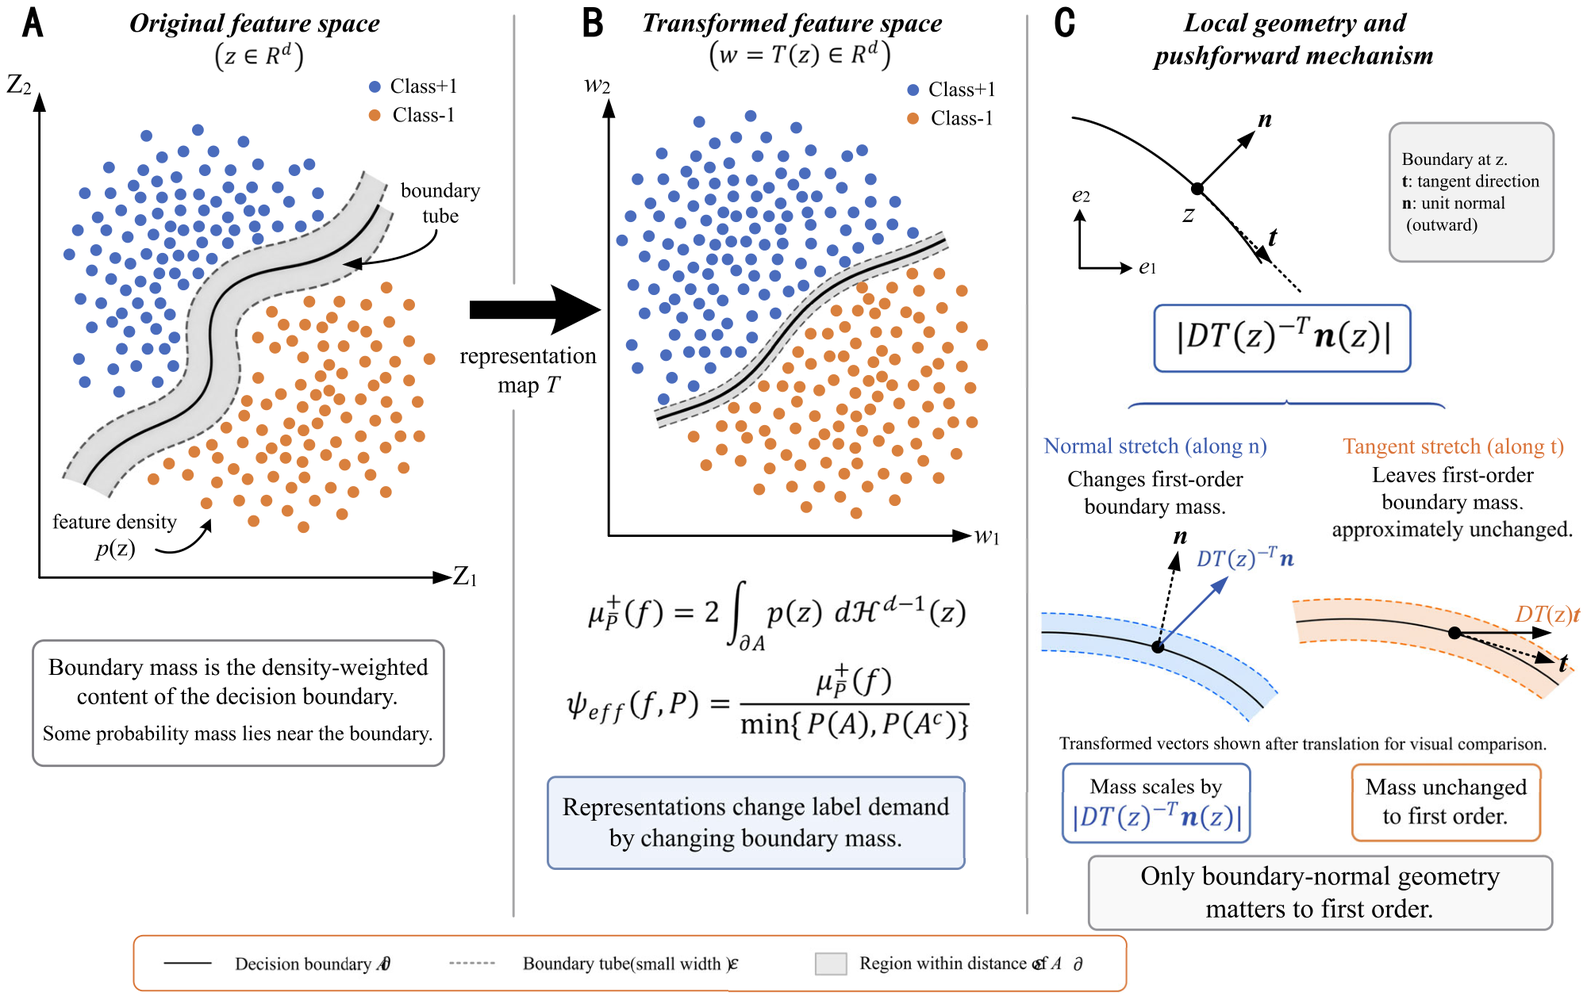
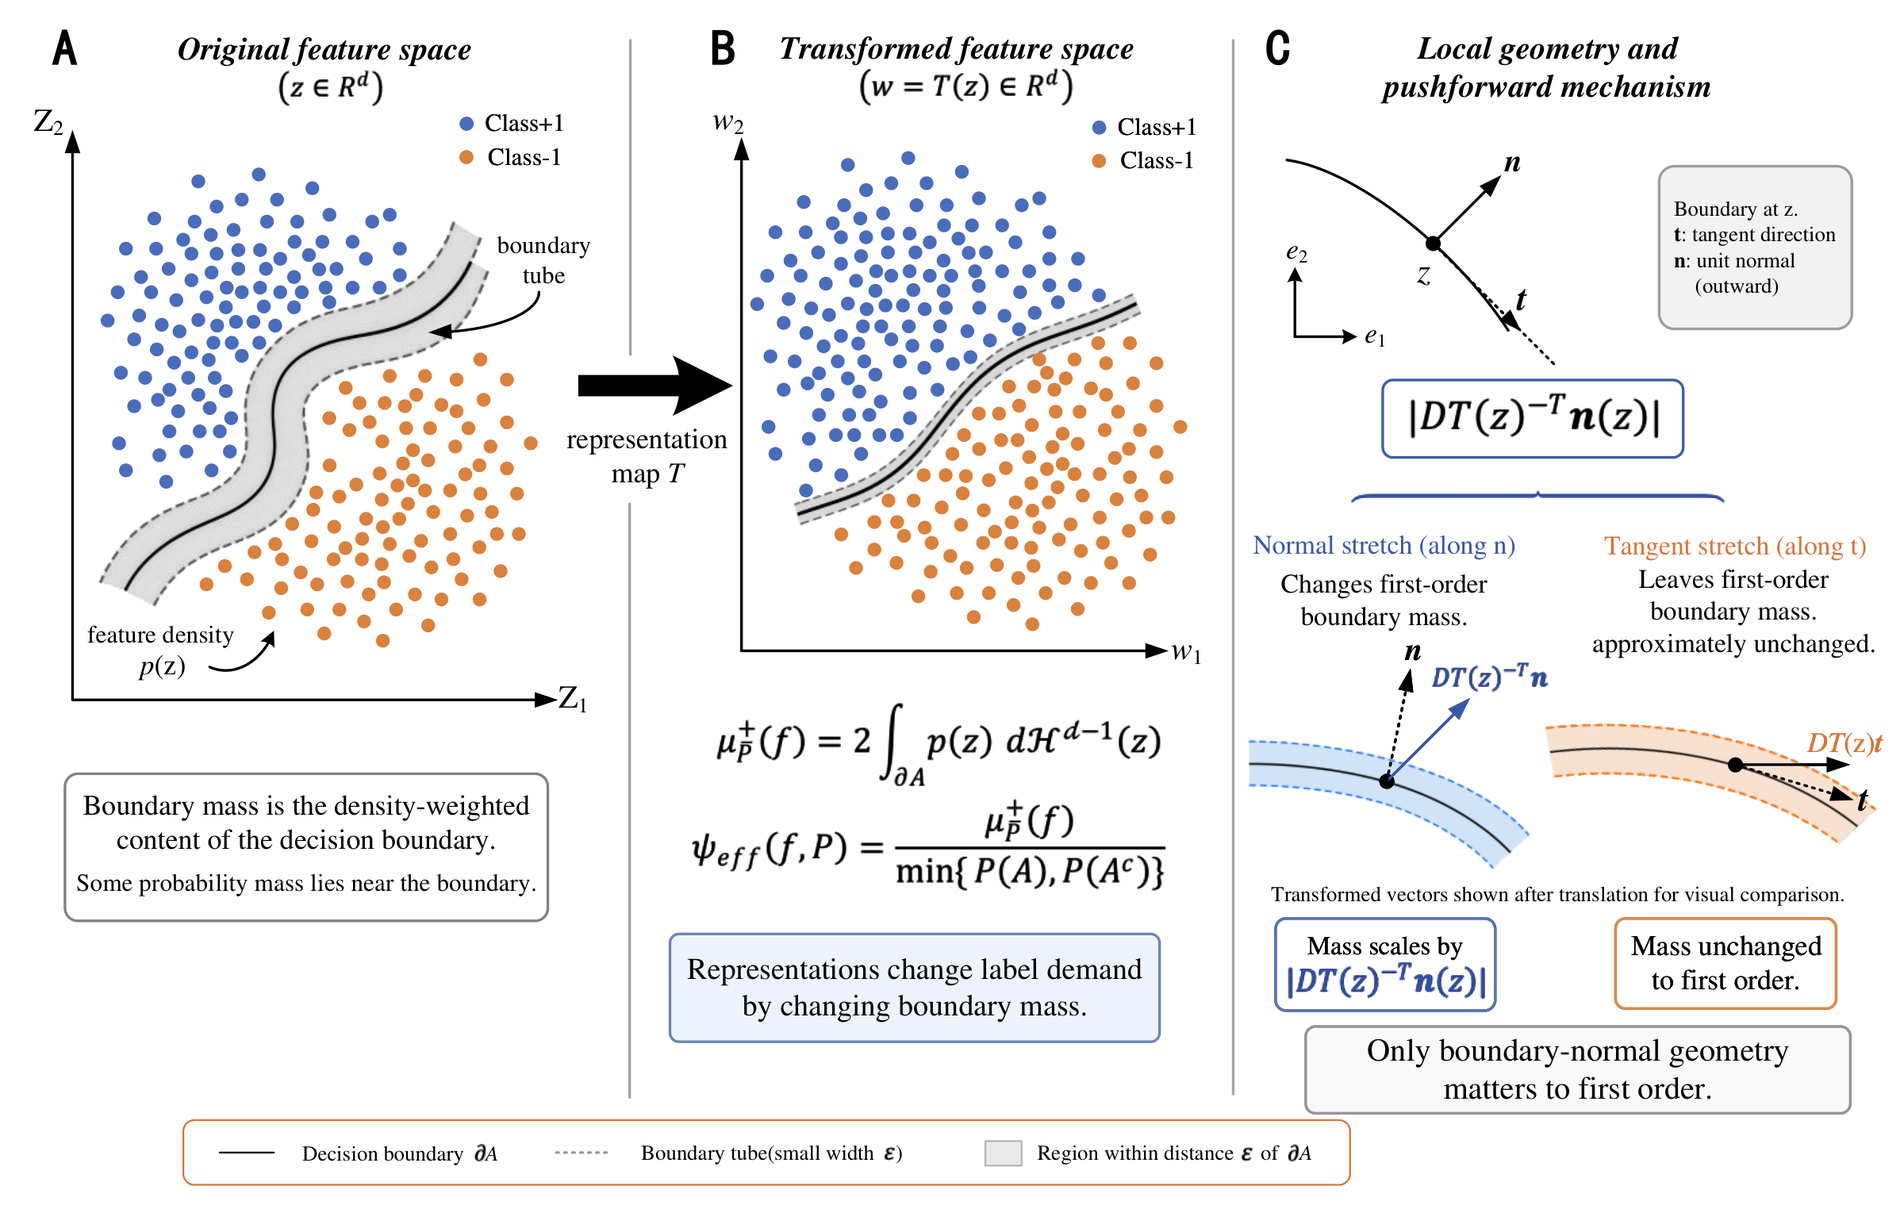
v2-modify3

diff --git a/experiments/score_conventions.py b/experiments/score_conventions.py
@@ -1,0 +1,137 @@
+"""Evaluate kernel and tube estimates of boundary mass on frozen features.
+
+Run from the project root with ``python -m experiments.score_conventions``.
+Scoring mode fits heads on probe-training features and measures boundary mass
+on diagnostic-heldout features. Geometry mode evaluates normal scaling.
+Paths follow BOUNDARY_DATA_DIR and BOUNDARY_RESULTS_DIR.
+"""
+from __future__ import annotations
+
+import argparse
+from pathlib import Path
+import numpy as np
+import pandas as pd
+from sklearn.linear_model import LogisticRegression
+from utils import binary_protocol as protocol
+from utils.boundary import binary_score_conventions
+from utils.paths import RESULTS_DIR
+from experiments.pilot_refitting import make_pairs
+from experiments.acquisition import balanced_pilot, initial_rng
+
+
+def measure(model, features, labels, epsilon=None):
+    distances = protocol.signed_distance(model, features)
+    if epsilon is None:
+        epsilon = max(0.05, float(np.quantile(np.abs(distances), 0.20)))
+    return binary_score_conventions(distances, labels, epsilon)
+
+
+def scoring(n_pairs, n_seeds, out):
+    rows = []
+    for backbone_id, (backbone, directory) in enumerate(protocol.CACHES.items()):
+        blob = protocol.load_features(directory / "train_features.pt")
+        for pair_id, (a, b) in enumerate(make_pairs()[:n_pairs]):
+            mask = (blob["labels"] == a) | (blob["labels"] == b)
+            X = np.asarray(blob["features"][mask], dtype="float32")
+            y = np.asarray(blob["labels"][mask] == b, dtype="int64")
+            probe, diag = protocol.split_probe_diag(y, pair_id, backbone_id)
+            Xp, Xd = protocol.standardize_from_probe(X[probe], X[diag])
+            yp, yd = y[probe], y[diag]
+            meta = dict(pair_id=pair_id, class_a=a, class_b=b, backbone=backbone,
+                        diag_n=len(yd))
+            model = protocol.fit_linear_head(Xp, yp)
+            rows.append(dict(**meta, protocol="full", pilot_spc=0, seed=-1,
+                             **measure(model, Xd, yd)))
+            groups = [np.flatnonzero(yp == c) for c in (0, 1)]
+            for spc in (2, 5, 10):
+                for seed in range(n_seeds):
+                    rng = np.random.default_rng(5000 + pair_id * 37
+                                                + backbone_id * 11 + spc * 3 + seed)
+                    selected = np.r_[tuple(rng.choice(ids, spc, replace=False)
+                                            for ids in groups)]
+                    model = protocol.fit_linear_head(Xp[selected], yp[selected])
+                    rows.append(dict(**meta, protocol="pilot", pilot_spc=spc,
+                                     seed=seed, **measure(model, Xd, yd)))
+            for seed in range(n_seeds):
+                selected = balanced_pilot(yp, 2, initial_rng(pair_id, backbone_id, seed))
+                model = protocol.fit_linear_head(Xp[selected], yp[selected])
+                rows.append(dict(**meta, protocol="acquisition", pilot_spc=2,
+                                 seed=seed, **measure(model, Xd, yd)))
+            if (pair_id + 1) % 10 == 0 or pair_id + 1 == n_pairs:
+                pd.DataFrame(rows).to_csv(out / "score_variants.csv", index=False)
+                print(f"{backbone}: {pair_id + 1}/{n_pairs} tasks; {len(rows)} heads", flush=True)
+        del blob
+    return pd.DataFrame(rows)
+
+
+def geometry(out):
+    rows = []
+    for backbone_id, (backbone, directory) in enumerate(list(protocol.CACHES.items())[:2]):
+        train = protocol.load_features(directory / "train_features.pt")
+        test = protocol.load_features(directory / "test_features.pt")
+        for pair_id, (a, b) in enumerate(make_pairs()[:8]):
+            m = (train["labels"] == a) | (train["labels"] == b)
+            t = (test["labels"] == a) | (test["labels"] == b)
+            X, Xd = protocol.standardize_from_probe(train["features"][m], test["features"][t])
+            y, yd = (train["labels"][m] == b).astype(int), (test["labels"][t] == b).astype(int)
+            def fit(features):
+                return LogisticRegression(C=1.0, penalty="l2", solver="liblinear",
+                    max_iter=1000, tol=1e-5, random_state=0).fit(features, y)
+            base = fit(X)
+            w = base.coef_.reshape(-1)
+            u = w / np.linalg.norm(w)
+            rng = np.random.default_rng(20260501 + 101 * backbone_id + pair_id)
+            v = rng.normal(size=u.shape)
+            md = (X[y == 1].mean(0) - X[y == 0].mean(0)).astype(float)
+            md -= (md @ u) * u
+            bases = [u] + ([md / np.linalg.norm(md)] if np.linalg.norm(md) > 1e-8 else [])
+            for axis in bases:
+                v -= (v @ axis) * axis
+            v /= np.linalg.norm(v)
+            d0 = protocol.signed_distance(base, Xd)
+            epsilon = max(0.05, float(np.quantile(np.abs(d0), .2)))
+            for direction, axis in (("normal", u), ("tangent", v)):
+                for scale in (.5, 1., 2., 4.):
+                    def transform(features):
+                        return (features + (scale - 1) * (features @ axis)[:, None] * axis).astype("float32")
+                    Xt, Xdt = transform(X), transform(Xd)
+                    # Inverse transpose of the symmetric rank-one scaling map.
+                    wt = w + (1 / scale - 1) * float(w @ axis) * axis
+                    transported = (Xdt @ wt + base.intercept_[0]) / np.linalg.norm(wt)
+                    model = fit(Xt)
+                    refitted = protocol.signed_distance(model, Xdt)
+                    distance_factor = scale if direction == "normal" else 1.
+                    for head, distances, width in (
+                        ("transported_fixed_width", transported, epsilon),
+                        ("transported_scaled_width", transported, distance_factor * epsilon),
+                        ("refitted_fixed_width", refitted, epsilon),
+                    ):
+                        values = binary_score_conventions(distances, yd, width)
+                        rows.append(dict(backbone=backbone, pair_id=pair_id,
+                            direction=direction, scale=scale, head=head,
+                            predicted_ratio=1 / distance_factor,
+                            transport_distance_error=float(np.max(np.abs(transported-distance_factor*d0))),
+                            **values))
+            print(f"geometry {backbone}: {pair_id + 1}/8", flush=True)
+        del train, test
+    frame = pd.DataFrame(rows)
+    frame.to_csv(out / "geometry_scores.csv", index=False)
+    return frame
+
+
+def main():
+    parser = argparse.ArgumentParser(description=__doc__)
+    parser.add_argument("--mode", choices=("scoring", "geometry"), default="scoring")
+    parser.add_argument("--n-pairs", type=int, default=40)
+    parser.add_argument("--n-seeds", type=int, default=5)
+    parser.add_argument("--output-dir", type=Path, default=RESULTS_DIR / "score_conventions")
+    args = parser.parse_args()
+    args.output_dir.mkdir(parents=True, exist_ok=True)
+    if args.mode == "scoring":
+        scoring(args.n_pairs, args.n_seeds, args.output_dir)
+    else:
+        geometry(args.output_dir)
+
+
+if __name__ == "__main__":
+    main()

diff --git a/plot_results.py b/plot_results.py
@@ -57,15 +57,18 @@ def prettify(ax):
 def controlled_real_feature():
     curves = pd.read_csv(
         result_file(
-            "normal_tangent/controlled_real_feature_learning_curves.csv"
+            "normal_tangent/controlled_direction_learning_curves.csv"
         )
     )
     diff = pd.read_csv(
         result_file(
-            "normal_tangent/controlled_real_feature_sample_difficulty.csv"
+            "normal_tangent/controlled_direction_sample_difficulty.csv"
         )
     )
 
+    # Both Figure 4 panels and Table 1 use the same paired experiment.
+    curves = curves[curves.direction == "normal"].rename(columns={"scale": "normal_scale"})
+    diff = diff[diff.direction == "normal"].rename(columns={"scale": "normal_scale"})
     fig, axes = plt.subplots(1, 3, figsize=(10.8, 3.0), constrained_layout=True)
 
     ax = axes[0]
@@ -99,7 +102,7 @@ def controlled_real_feature():
             color=SCALE_COLORS.get(float(scale), None),
             label=f"s={scale:g}",
         )
-    ax.set_xlabel(r"$\log(1+\hat\psi_{\rm eff})$")
+    ax.set_xlabel(r"$\log(1+D_{\rm ker})$")
     ax.set_ylabel("AULC")
     ax.set_title("Boundary mass vs. AULC")
     prettify(ax)
@@ -115,7 +118,7 @@ def controlled_real_feature():
             linewidth=0.35,
             color=SCALE_COLORS.get(float(scale), None),
         )
-    ax.set_xlabel(r"$\log(1+\hat\psi_{\rm eff})$")
+    ax.set_xlabel(r"$\log(1+D_{\rm ker})$")
     ax.set_ylabel("labels to target")
     ax.set_title("Boundary mass vs. label budget")
     prettify(ax)
@@ -140,7 +143,7 @@ def direction_controls():
 
     fig, axes = plt.subplots(1, 3, figsize=(10.8, 2.65), constrained_layout=True)
     for ax, y, title, ylabel in [
-        (axes[0], "logpsi", "Tube coefficient", r"$\log(1+\hat\psi_{\rm eff})$"),
+        (axes[0], "logpsi", "Kernel boundary score", r"$\log(1+D_{\rm ker})$"),
         (axes[1], "aulc", "Low-shot AULC", "AULC"),
         (axes[2], "budget", "Target label budget", "labels to target"),
     ]:
@@ -203,7 +206,7 @@ def backbone_experiment():
             color=BACKBONE_COLORS.get(backbone, None),
             label=backbone,
         )
-    ax.set_xlabel(r"held-out train $\log(1+\hat\psi_{\rm eff})$")
+    ax.set_xlabel(r"held-out train $\log(1+D_{\rm ker})$")
     ax.set_ylabel("test label budget (spc)")
     ax.set_title("Boundary mass and label demand")
     ax.legend(
@@ -233,7 +236,7 @@ def backbone_experiment():
     ax.set_xticks([0, 0.05, 0.10, 0.15])
     for row, value in zip(y, x):
         ax.text(value + 0.003, row + 0.26, f"{value:.3f}", va="center", fontsize=8)
-    ax.set_xlabel(r"incremental $\Delta R^2$ from $\hat\psi$ (95% CI)")
+    ax.set_xlabel(r"incremental $\Delta R^2$ from $D_{\rm ker}$ (95% CI)")
     ax.set_title("Transferability controls")
     prettify(ax)
 

diff --git a/utils/boundary.py b/utils/boundary.py
@@ -3,6 +3,37 @@
 import numpy as np
 
 
+def binary_score_conventions(signed_distances, labels, epsilon):
+    """Estimate boundary density and two-sided boundary-tube coefficients.
+
+    ``kernel_label`` and ``hard_label`` estimate signed-distance density at
+    zero, normalized by observed label balance. ``kernel_predicted`` and
+    ``hard_predicted`` estimate the two-sided coefficient, normalized by
+    predicted-class balance. A zero balance denominator gives NaN.
+    """
+    distances = np.asarray(signed_distances, dtype=float)
+    labels = np.asarray(labels)
+    if distances.ndim != 1 or not distances.size or labels.shape != distances.shape:
+        raise ValueError("distances and labels must be matching nonempty vectors")
+    if not np.isfinite(distances).all() or not np.isin(labels, [0, 1]).all():
+        raise ValueError("distances must be finite and labels must be binary")
+    if not np.isfinite(epsilon) or epsilon <= 0:
+        raise ValueError("epsilon must be finite and positive")
+    positive = float(np.mean(distances >= 0))
+    beta = min(positive, 1.0 - positive)
+    alpha_y = min(float(np.mean(labels == 0)), float(np.mean(labels == 1)))
+    tube = float(np.mean(np.abs(distances) <= epsilon))
+    with np.errstate(over="ignore"):
+        density = float(np.exp(-0.5 * (distances / epsilon) ** 2).mean()
+                        / (np.sqrt(2.0 * np.pi) * epsilon))
+    return dict(epsilon=float(epsilon), predicted_positive=positive,
+                beta=beta, alpha_y=alpha_y, tube_fraction=tube,
+                kernel_label=density / alpha_y if alpha_y > 0 else np.nan,
+                hard_label=tube / (2 * epsilon * alpha_y) if alpha_y > 0 else np.nan,
+                kernel_predicted=2 * density / beta if beta > 0 else np.nan,
+                hard_predicted=tube / (epsilon * beta) if beta > 0 else np.nan)
+
+
 def estimate_boundary_mass(signed_distances, epsilon, *, kernel="hard"):
     """Estimate effective boundary complexity using predicted-class balance.
 

diff --git a/experiments/normal_scaling_tables.py b/experiments/normal_scaling_tables.py
@@ -1,0 +1,31 @@
+"""Summarize both halves of the normal/tangent comparison from one data set."""
+import argparse
+from pathlib import Path
+import pandas as pd
+from utils.paths import result_file, RESULTS_DIR
+
+
+def main():
+    parser = argparse.ArgumentParser(description=__doc__)
+    parser.add_argument("--input", type=Path, default=result_file(
+        "normal_tangent/controlled_direction_sample_difficulty.csv"))
+    parser.add_argument("--output-dir", type=Path, default=RESULTS_DIR / "normal_tangent")
+    args = parser.parse_args()
+    data = pd.read_csv(args.input)
+    keys = ["benchmark", "pair_id", "direction"]
+    metrics = ["log1p_psi_eff", "early_acc_5spc", "aulc", "label_budget_to_90pct_full"]
+    if data.duplicated(keys + ["scale"]).any():
+        raise ValueError("Each task, backbone, direction and scale must occur once")
+    base = data[data.scale == 1].set_index(keys)[metrics]
+    expanded = data[data.scale == 2].set_index(keys)[metrics]
+    if set(base.index) != set(expanded.index):
+        raise ValueError("The two scales must contain the same configurations")
+    effects = (expanded - base).reset_index()
+    args.output_dir.mkdir(parents=True, exist_ok=True)
+    data.groupby(["direction", "scale"])[metrics].mean().to_csv(args.output_dir / "paired_scale_means.csv")
+    effects.groupby("direction")[metrics].mean().to_csv(args.output_dir / "paired_scale_effects.csv")
+    effects.to_csv(args.output_dir / "paired_scale_differences.csv", index=False)
+
+
+if __name__ == "__main__":
+    main()

diff --git a/experiments/near_tie_selection.py b/experiments/near_tie_selection.py
@@ -310,8 +310,8 @@ def plot_pairwise(pair_rows: list[dict[str, float]]) -> None:
         axes[0].axhline(0, color="#333333", linewidth=0.8)
         axes[0].set_xticks(x)
         axes[0].set_xticklabels(labels, rotation=12)
-        axes[0].set_ylabel("budget change vs. non-psi pick")
-        axes[0].set_title("Use psi only as tie-breaker")
+        axes[0].set_ylabel("budget change vs. conventional pick")
+        axes[0].set_title(r"$D_{\rm ker}$ as a second-stage score")
         axes[1].bar(x, scores, color=["#4C78A8", "#72B7B2", "#F58518"], width=0.65)
         axes[1].errorbar(
             x,
@@ -326,7 +326,7 @@ def plot_pairwise(pair_rows: list[dict[str, float]]) -> None:
         axes[1].set_ylim(45, max(70, float(np.nanmax(scores + score_yerr[1]) + 5)))
         axes[1].set_xticks(x)
         axes[1].set_xticklabels(labels, rotation=12)
-        axes[1].set_ylabel("lower-psi win/tie score (%)")
+        axes[1].set_ylabel(r"lower-$D_{\rm ker}$ win/tie score (%)")
         axes[1].set_title("Pairwise boundary burden")
         fig.tight_layout()
         fig.savefig(FIG / "near_tie_selection_selection.png", dpi=220)

diff --git a/experiments/backbone_selection.py b/experiments/backbone_selection.py
@@ -734,13 +734,13 @@ def analyze(B: pd.DataFrame, backbones: list[str]) -> dict[str, object]:
         fig, axs = plt.subplots(1, 2, figsize=(8.5, 3.3))
         for bb, sub in B.groupby("backbone"):
             axs[0].scatter(sub.log1p_psi, sub.label_budget, s=18, alpha=0.7, label=bb)
-        axs[0].set_xlabel("held-out-train log(1+$\\hat\\psi_{\\rm eff}$)")
+        axs[0].set_xlabel(r"held-out-train $\log(1+D_{\rm ker})$")
         axs[0].set_ylabel("test label budget")
         axs[0].legend(frameon=False, fontsize=7)
         axs[1].bar(range(len(incdf)), incdf.delta_r2, color="#4c78a8")
         axs[1].set_xticks(range(len(incdf)))
         axs[1].set_xticklabels(incdf.base, rotation=25, ha="right", fontsize=8)
-        axs[1].set_ylabel("$\\Delta R^2$ from adding $\\psi$")
+        axs[1].set_ylabel(r"$\Delta R^2$ from adding $D_{\rm ker}$")
         fig.tight_layout()
         fig.savefig(FIG / "fig06_detailed_backbone_selection.png", dpi=220)
         fig.savefig(FIG / "strict_label_budget_decision_experiment.pdf")

diff --git a/docs/EXPERIMENTS.md b/docs/EXPERIMENTS.md
@@ -51,13 +51,40 @@ python run.py pilot_refitting --output-dir outputs/selection -- --n-seeds 5 --n-
 
 `--raw-metrics` and `--selections` accept previously computed experiment outputs for statistical aggregation.
 
-## Score conventions
+## Boundary-mass estimation
 
-`utils.boundary.estimate_boundary_mass` implements the paper's two-sided binary coefficient. For signed distance `s` and predicted-class balance `beta`, the hard score is `mean(abs(s) <= epsilon) / (epsilon * beta)`. Its Gaussian version is `2 * mean(phi(s / epsilon)) / (epsilon * beta)`, where `phi` is the standard normal density.
+Gaussian weighting and tube counting estimate the signed-distance density at the learned boundary. For diagnostic signed distances `s`, bandwidth `epsilon`, and standard normal density `phi`, define:
 
-The binary backbone-selection, acquisition, and pilot-refitting tables use one-sided Gaussian surface-density scores and the smaller observed label frequency `alpha_y`. Their kernel score is `mean(phi(s / epsilon)) / (epsilon * alpha_y)`; the companion hard score divides tube probability by `2 * epsilon * alpha_y`. Multiplying either by `2 * alpha_y / beta` gives the corresponding two-sided, predicted-balance score. Regression and policy results use the scores produced by their respective experiment entry points.
+- `density = mean(phi(s / epsilon)) / epsilon`
+- `tube = mean(abs(s) <= epsilon)`
+- `alpha_y`: the smaller observed diagnostic-label frequency.
+- `beta`: the smaller predicted-class frequency, using `s >= 0` as the positive class.
 
-Multiclass comparison uses class-versus-leading-rival distances and a top-two interface gate. End-to-end monitoring averages classwise hard and triangular-kernel scores, using observed class frequencies with a 0.01 floor. The standalone MNIST training example uses the canonical two-sided helper with predicted-class balance at each checkpoint.
+`utils.boundary.binary_score_conventions` returns four estimates:
+
+| Output field | Estimate | Formula |
+|---|---|---|
+| `kernel_label` | Gaussian density normalized by observed class balance, `D_ker` | `density / alpha_y` |
+| `hard_label` | Tube density normalized by observed class balance, `D_hard` | `tube / (2 * epsilon * alpha_y)` |
+| `kernel_predicted` | Two-sided Gaussian coefficient with predicted-class balance | `2 * density / beta` |
+| `hard_predicted` | Two-sided tube coefficient with predicted-class balance | `tube / (epsilon * beta)` |
+
+The binary scaling, backbone-selection, acquisition, and pilot-refitting experiments use `D_ker`. Their CSV fields `psi_eff` and `log1p_psi` store `D_ker` and `log(1 + D_ker)`. Multiplication by `2 * alpha_y / beta` gives the corresponding two-sided coefficient for each fitted head. `utils.boundary.estimate_boundary_mass` computes the two-sided hard or Gaussian estimate using predicted-class balance.
+
+Multiclass comparison uses class-versus-leading-rival distances and a top-two interface gate. End-to-end monitoring averages classwise hard and triangular-kernel scores, using observed class frequencies with a 0.01 floor. The MNIST training example measures the two-sided coefficient with predicted-class balance during training.
+
+### Label-budget prediction and normal scaling
+
+Evaluate kernel and tube scores on the same fitted heads, diagnostic features, and bandwidths:
+
+```bash
+python -m experiments.score_conventions --mode scoring --n-pairs 40 --n-seeds 5
+python -m experiments.score_conventions --mode geometry
+```
+
+Scoring mode measures full-probe, pilot-refitting, and acquisition-initialization heads, writing the four estimates to `score_variants.csv`. Paper regressions add `log(1 + score)` to conventional diagnostics; the top-2 policy selects the lower-scoring backbone from the conventional shortlist. Acquisition correlations use seed-averaged log-scores and realized label budgets.
+
+Geometry mode measures transported and refitted heads under normal scaling. For scale factor `a`, a transported head satisfies `D_push(a, epsilon) = D_base(epsilon / a) / a`. Scaling the bandwidth to `a * epsilon` gives `D_base(epsilon) / a`, matching the inverse-normal-scale law of the population coefficient.
 
 ## End-to-end boundary pressure
 
@@ -81,12 +108,16 @@ python -m experiments.mnist_training --data-dir data --output-dir outputs/mnist 
 After computing the corresponding experiments:
 
 ```bash
-python run.py normal_scaling --output-dir outputs/selection
 python run.py tangent_control --output-dir outputs/selection
 python run.py plot_results --output-dir outputs/selection
 ```
 
-Figures use the normal/tangent curves, backbone budgets and transferability summary in the shared output directory.
+Both normal/tangent panels use `tangent_control`'s paired data. At each scale,
+the directions share label draws; the draws vary across scales. The standalone
+`normal_scaling` sweep uses a separate draw rule. Summarize Table 1 from the paired
+data with `python -m experiments.normal_scaling_tables --input PATH --output-dir DIR`.
+Figures also use the backbone budgets and transferability summary in the shared
+output directory.
 
 ## Additional entry points
 

diff --git a/README.md b/README.md
@@ -72,7 +72,7 @@ psi_hat = estimate_boundary_mass(signed_distance, epsilon)
 psi_kernel = estimate_boundary_mass(signed_distance, epsilon, kernel="gaussian")
 ```
 
-Use a fitted head with a positive normal norm and diagnostic samples covering both predicted classes. Binary scoring costs **O(Nd)**; C-class OvR scoring costs **O(NCd)**. Both estimates use the two-sided boundary coefficient and predicted-class balance. The [experiment guide](docs/EXPERIMENTS.md#score-conventions) gives the score conventions used by each experiment.
+Use a fitted head with a positive normal norm and diagnostic samples covering both predicted classes. Binary scoring costs **O(Nd)**; C-class OvR scoring costs **O(NCd)**. Both estimates use the two-sided boundary coefficient and predicted-class balance. The [experiment guide](docs/EXPERIMENTS.md#boundary-mass-estimation) describes kernel and tube estimation, class normalization, and label-budget experiments.
 
 ### Synthetic geometry
 
